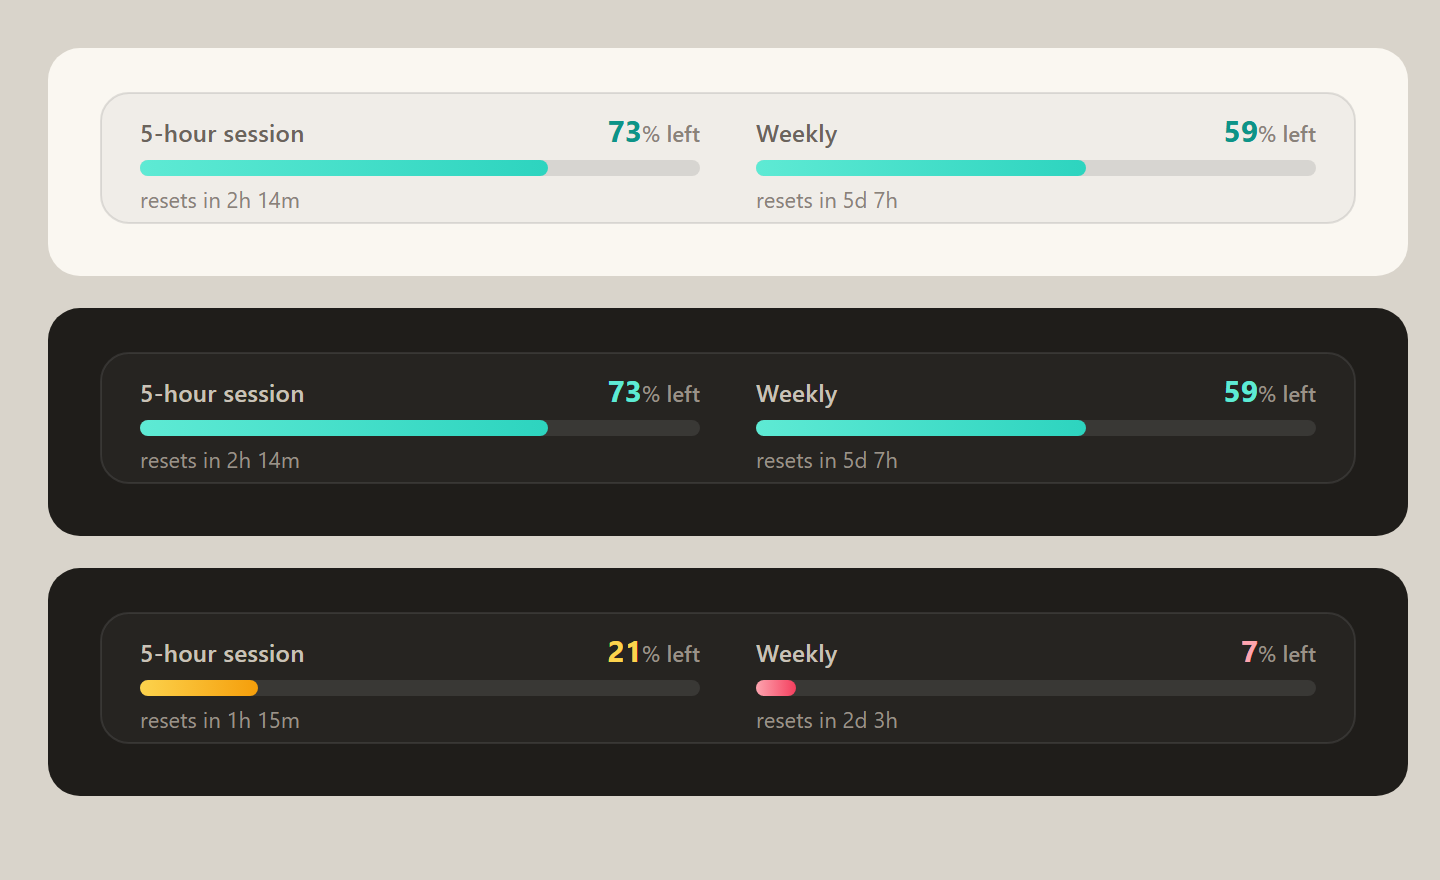
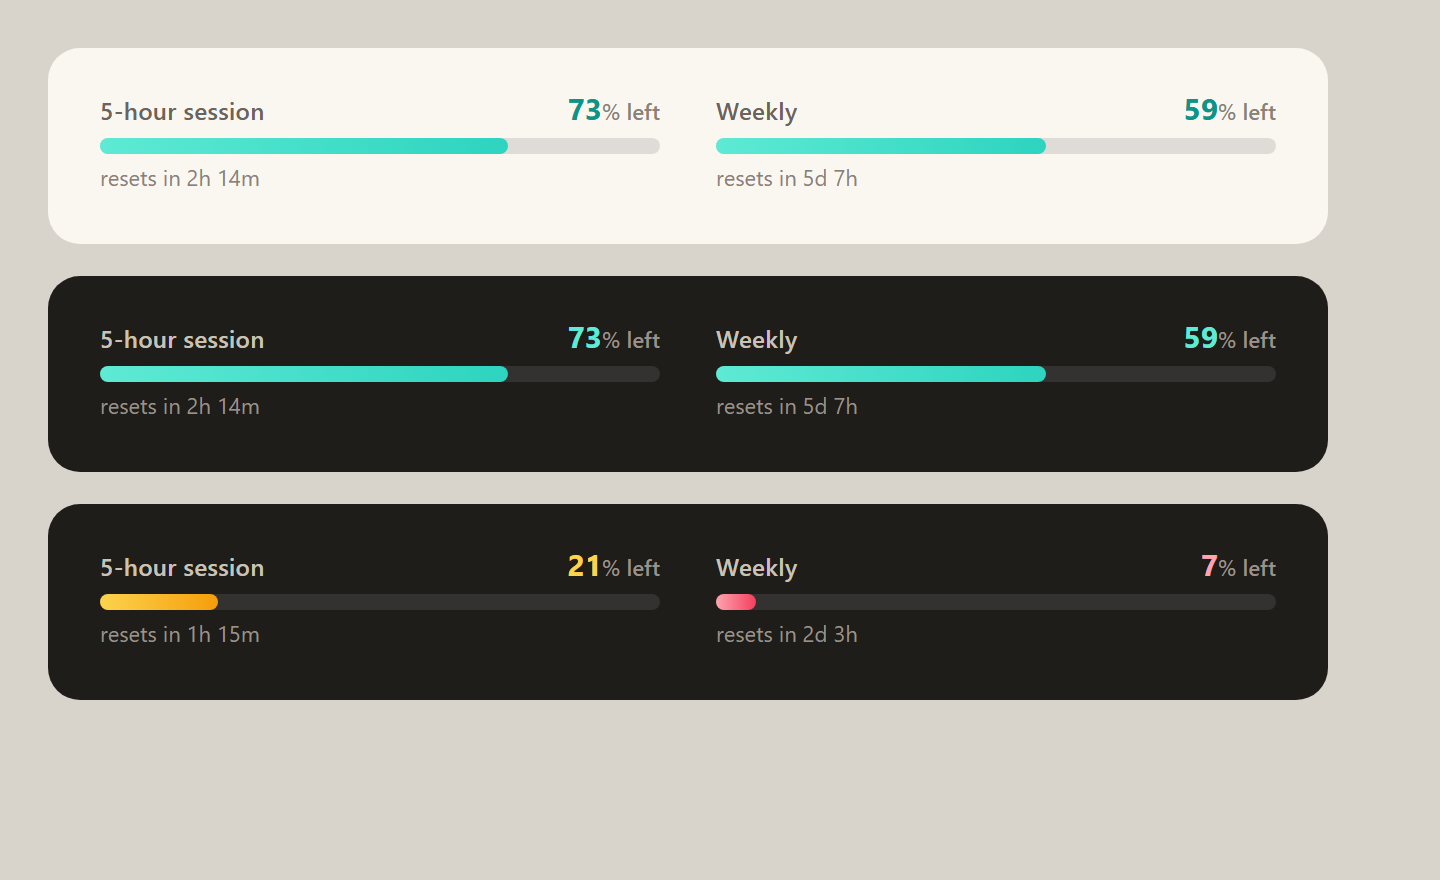
Drop the inner card: sit inside the app's own rounded frame

diff --git a/hooks/bar.ts b/hooks/bar.ts
@@ -21,8 +21,8 @@ const tone = (left: number) => (left <= 10 ? 'low' : left <= 30 ? 'mid' : 'ok')
 export function buildSvg(list: Limit[], at: number): string {
   const colW = 280
   const gap = 28
-  const padX = 20
-  const h = 66
+  const padX = 0 // the app already wraps this in its own rounded card, so no card or padding of our own
+  const h = 50
   const n = list.length
   const w = padX * 2 + n * colW + (n - 1) * gap
 
@@ -36,11 +36,11 @@ export function buildSvg(list: Limit[], at: number): string {
       const reset = esc(resetText(l.resetsAt, at))
       return `
   <g transform="translate(${x} 0)">
-    <text class="lbl" x="0" y="25">${label}</text>
-    <text class="pct ${t}" x="${colW}" y="25" text-anchor="end">${left}<tspan class="unit">% left</tspan></text>
-    <rect class="track" x="0" y="34" width="${colW}" height="8" rx="4"/>
-    <rect class="fill ${t}" x="0" y="34" width="${fillW}" height="8" rx="4"/>
-    <text class="sub" x="0" y="58">${reset}</text>
+    <text class="lbl" x="0" y="14">${label}</text>
+    <text class="pct ${t}" x="${colW}" y="14" text-anchor="end">${left}<tspan class="unit">% left</tspan></text>
+    <rect class="track" x="0" y="23" width="${colW}" height="8" rx="4"/>
+    <rect class="fill ${t}" x="0" y="23" width="${fillW}" height="8" rx="4"/>
+    <text class="sub" x="0" y="47">${reset}</text>
   </g>`
     })
     .join('')
@@ -53,7 +53,6 @@ export function buildSvg(list: Limit[], at: number): string {
   </defs>
   <style>
     text { font-family: system-ui, 'Segoe UI', sans-serif; }
-    .card { fill: rgba(128,128,128,0.08); stroke: rgba(128,128,128,0.22); stroke-width: 1; }
     .track { fill: rgba(128,128,128,0.22); }
     .lbl { font-size: 12px; font-weight: 600; fill: #6b645c; letter-spacing: 0.2px; }
     .sub { font-size: 11px; fill: #8a8279; }
@@ -67,6 +66,6 @@ export function buildSvg(list: Limit[], at: number): string {
       .pct.ok { fill: #5eead4; } .pct.mid { fill: #fcd34d; } .pct.low { fill: #fda4af; }
     }
   </style>
-  <rect class="card" x="0.5" y="0.5" width="${w - 1}" height="${h - 1}" rx="14"/>${cols}
+${cols}
 </svg>`
 }

diff --git a/README.md b/README.md
@@ -7,7 +7,7 @@ A soft, modern usage card that sits right above the Claude Code prompt.
 - **Remaining usage, not used.** Each limit (5-hour session, weekly, spend) is a slim gradient bar with a big "% left".
 - **Reset time at a glance.** `resets in 2h 14m` under every bar.
 - **Calm colors that warn.** Teal when you have plenty, amber under 30%, rose under 10%.
-- **Light and dark.** The card is translucent and follows the app's mode.
+- **Light and dark.** No extra frame: it sits in the app's own rounded card and follows its light or dark mode.
 - **Terminal friendly.** In a plain terminal (no graphics) it falls back to compact text bars.
 
 It is a Claude Code "mod": one hook on the `AbovePrompt` slot, a few dozen lines, no dependencies, and it reads only the rate-limit numbers Claude Code already has. Nothing is sent anywhere.
